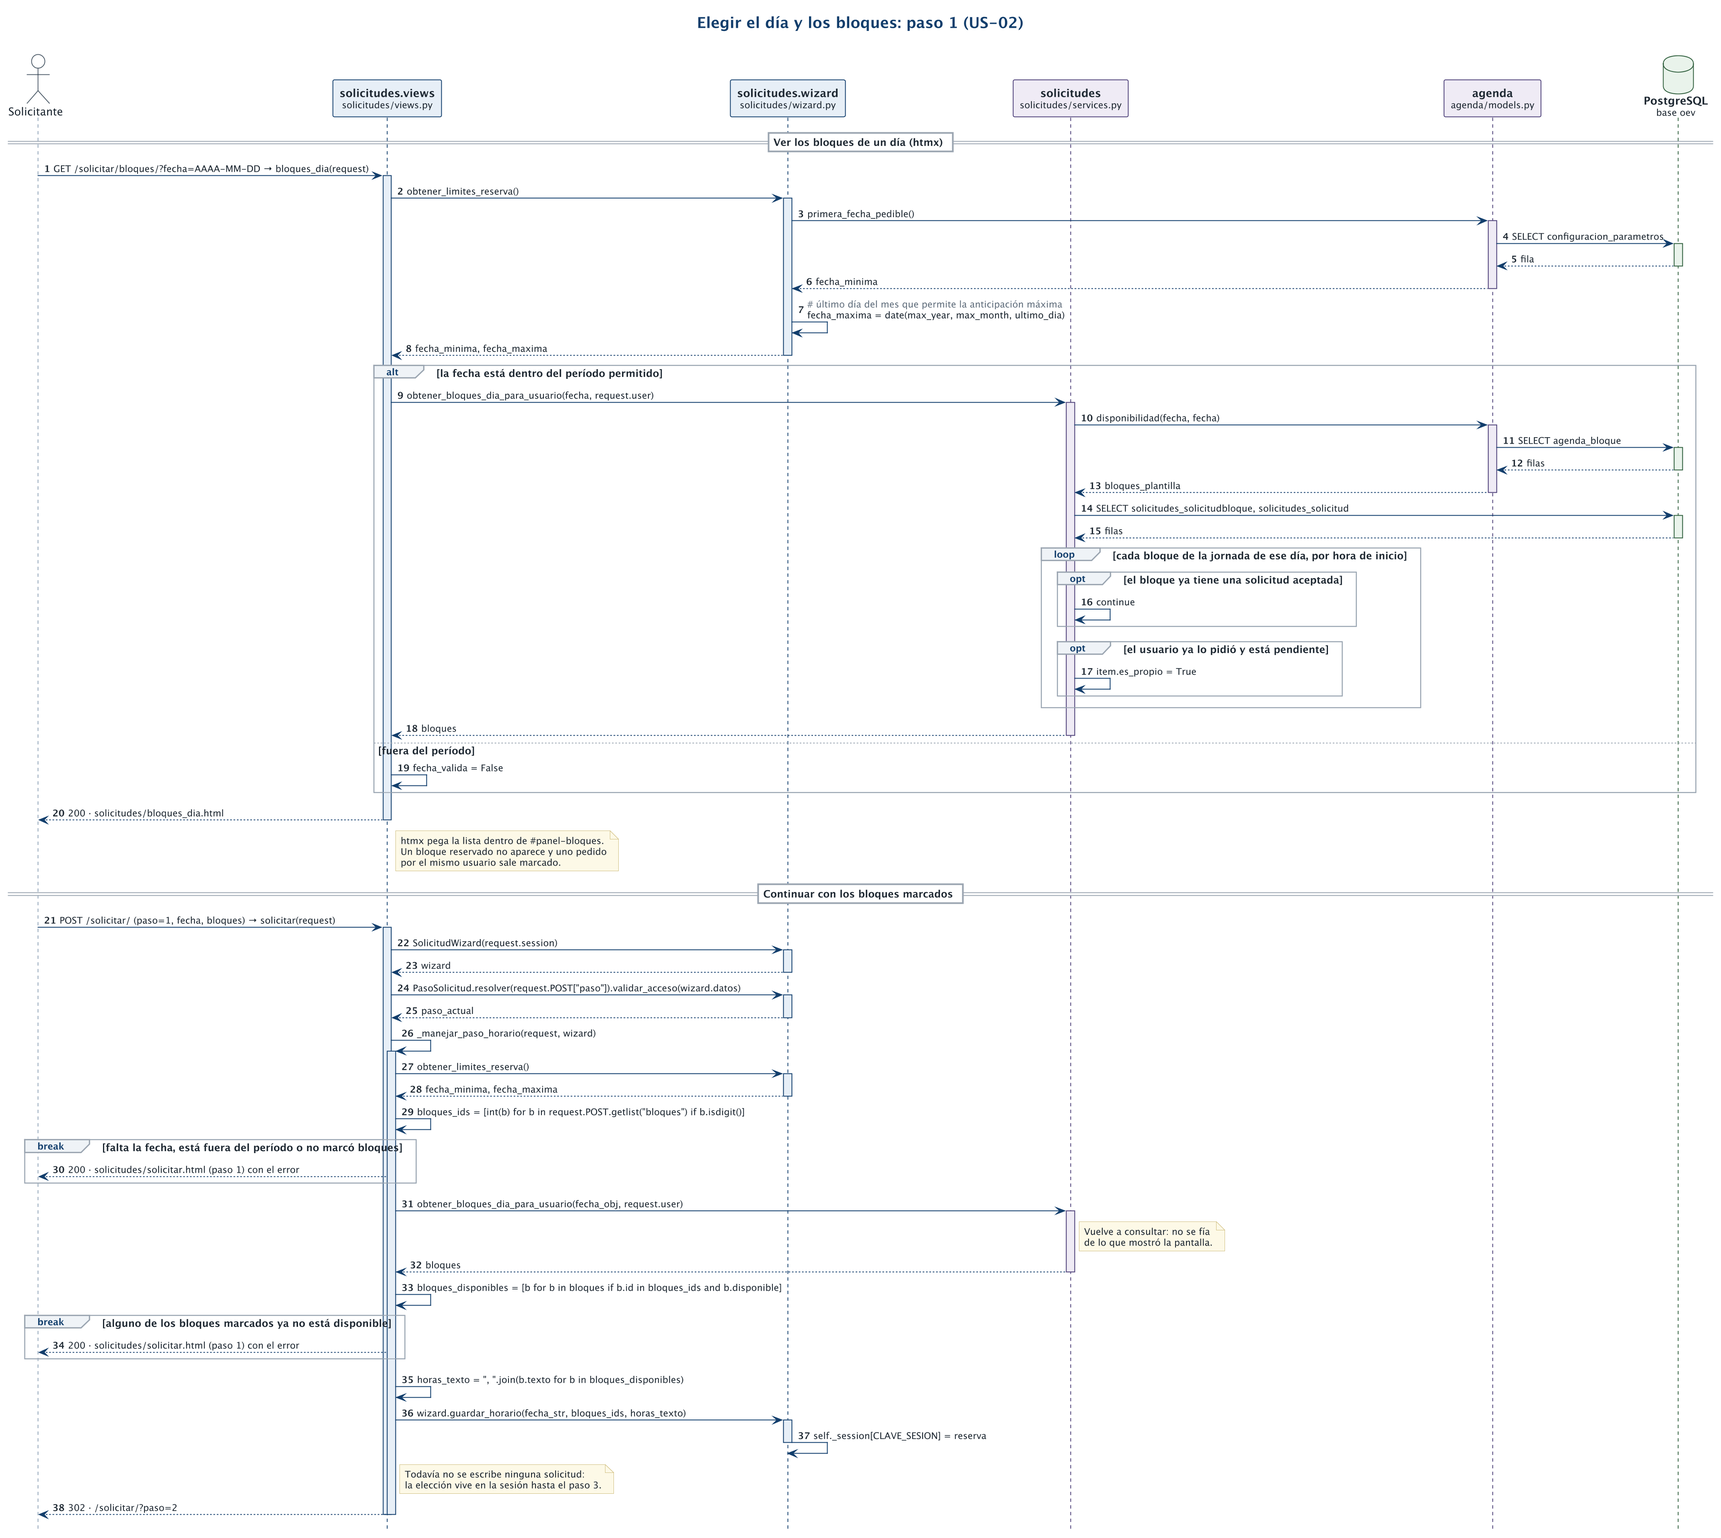
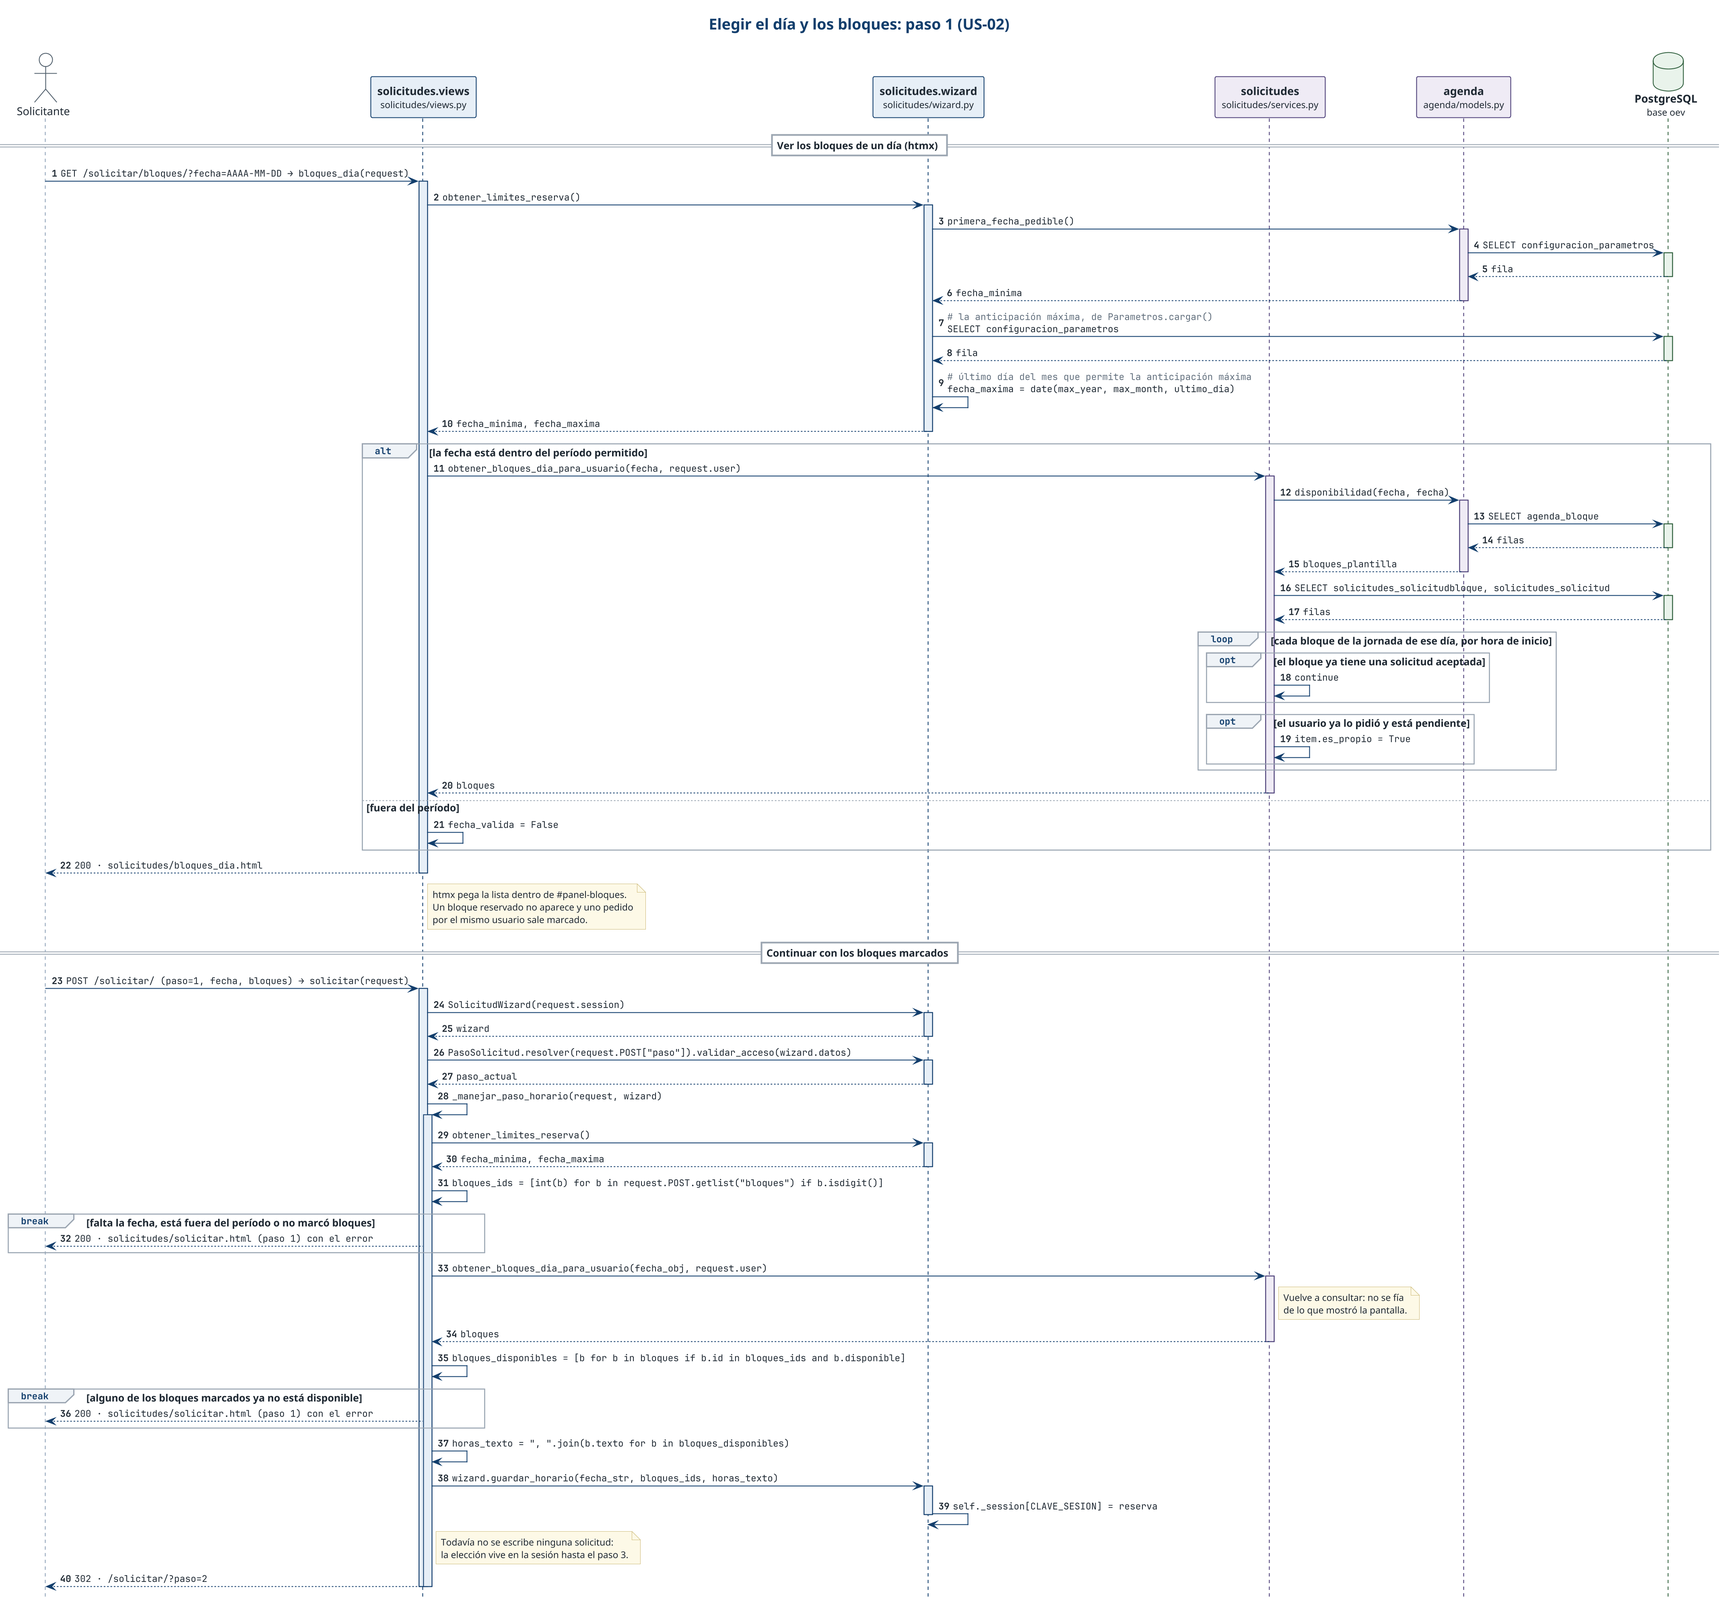
fix(solicitudes): bloqueos al enviar, topes que marcan y anticipación configurable

diff --git a/src/solicitudes/templates/solicitudes/solicitar.html b/src/solicitudes/templates/solicitudes/solicitar.html
@@ -196,6 +196,12 @@
       </div>
     {% endif %}
 
+    {% if marcas %}
+      <div class="aviso" role="status">
+        {% for aviso in marcas %}{{ aviso }} {% endfor %}La solicitud se envía igual: llega marcada al validador, que decide.
+      </div>
+    {% endif %}
+
     <section class="resumen-confirmacion">
       <h2>Resumen de la reserva</h2>
       <dl class="ficha">

diff --git a/src/solicitudes/services.py b/src/solicitudes/services.py
@@ -4,9 +4,11 @@ from typing import Any, Dict, List, Optional, Tuple
 
 from django.core.exceptions import ValidationError
 from django.db import transaction
+from django.utils.formats import date_format
 
 from agenda.models import Bloque, disponibilidad, primera_fecha_pedible
 from agenda.signals import Reserva
+from configuracion.models import Parametros
 from personas.models import Area
 from .models import Acompanante, Solicitud, SolicitudBloque
 
@@ -122,7 +124,6 @@ def obtener_bloques_dia_para_usuario(fecha: date, usuario=None) -> List[Any]:
             "texto": f"{b.inicio.strftime('%H:%M')} – {b.termino.strftime('%H:%M')}",
             "disponible": True,
             "es_propio": False,
-            "disponible_para_reserva": True,
         })()
 
         # Si el usuario actual tiene una solicitud PENDIENTE para este bloque:
@@ -130,11 +131,42 @@ def obtener_bloques_dia_para_usuario(fecha: date, usuario=None) -> List[Any]:
             s.solicitante_id == usuario_id and s.estado_validacion == Solicitud.EstadoValidacion.PENDIENTE
             for s in sols
         ):
+            # Se ve, pero no se puede volver a pedir: el paso 1 lo rechaza.
             item.es_propio = True
-            item.disponible_para_reserva = False
+            item.disponible = False
 
         resultado.append(item)
 
+    return resultado
+
+
+def marcas(usuario, fecha, cantidad) -> Dict[str, str]:
+    """US-04: los topes no impiden enviar, marcan la solicitud para el validador.
+
+    Devuelve {campo de Solicitud: aviso para el solicitante}, solo con las que
+    aplican. El tope mensual cuenta los bloques vivos de la persona en el mes de
+    `fecha`: pendientes y aceptados que no se cancelaron.
+    """
+    parametros = Parametros.cargar()
+    en_el_mes = cantidad + SolicitudBloque.objects.filter(
+        solicitud__solicitante=usuario,
+        fecha__year=fecha.year,
+        fecha__month=fecha.month,
+        solicitud__estado_validacion__in=[
+            Solicitud.EstadoValidacion.PENDIENTE,
+            Solicitud.EstadoValidacion.ACEPTADA,
+        ],
+    ).exclude(solicitud__estado_confirmacion=Solicitud.EstadoConfirmacion.CANCELADA).count()
+    resultado = {}
+    if cantidad > parametros.max_bloques_solicitud:
+        resultado["sobre_bloques_por_solicitud"] = (
+            f"Pides {cantidad} bloques y el máximo por solicitud es {parametros.max_bloques_solicitud}."
+        )
+    if en_el_mes > parametros.tope_mensual:
+        resultado["sobre_tope_mensual"] = (
+            f"Con esta solicitud sumas {en_el_mes} bloques en {date_format(fecha, 'F')} "
+            f"y el tope mensual es {parametros.tope_mensual}."
+        )
     return resultado
 
 
@@ -148,6 +180,7 @@ def guardar_solicitud_completa(
         fecha_obj = datos_reserva.get("fecha")
         if isinstance(fecha_obj, str):
             fecha_obj = datetime.strptime(fecha_obj, "%Y-%m-%d").date()
+        bloques_ids = datos_reserva.get("bloques_ids", [])
 
         solicitud = Solicitud(
             solicitante=usuario,
@@ -157,11 +190,11 @@ def guardar_solicitud_completa(
             personas=datos_reserva.get("personas", 1),
             estado_validacion=Solicitud.EstadoValidacion.PENDIENTE,
             estado_confirmacion=Solicitud.EstadoConfirmacion.NO_HABILITADA,
+            **{campo: True for campo in marcas(usuario, fecha_obj, len(bloques_ids))},
         )
         solicitud.full_clean()
         solicitud.save()
 
-        bloques_ids = datos_reserva.get("bloques_ids", [])
         bloques_db = Bloque.objects.filter(id__in=bloques_ids, activo=True)
         if len(bloques_db) != len(bloques_ids):
             raise ValidationError("Uno o más bloques seleccionados no son válidos o ya no están activos.")

diff --git a/src/solicitudes/models.py b/src/solicitudes/models.py
@@ -3,7 +3,7 @@ from django.core.exceptions import ValidationError
 from django.core.validators import MaxValueValidator, MinValueValidator
 from django.db import models
 
-from agenda.models import Bloque, primera_fecha_pedible
+from agenda.models import Bloque, bloqueo_de, primera_fecha_pedible
 from personas.models import Area
 
 
@@ -57,6 +57,13 @@ class Solicitud(models.Model):
         choices=EstadoConfirmacion.choices,
         default=EstadoConfirmacion.NO_HABILITADA,
         verbose_name="estado de confirmación",
+    )
+    # US-04: los topes no impiden enviar; marcan la solicitud para que decida el
+    # validador. Se fijan al enviar (`services.marcas`), así cambiar un tope
+    # después no toca las ya enviadas (AC3).
+    sobre_tope_mensual = models.BooleanField(default=False, verbose_name="sobre el tope mensual")
+    sobre_bloques_por_solicitud = models.BooleanField(
+        default=False, verbose_name="sobre el máximo de bloques por solicitud"
     )
 
     bloques = models.ManyToManyField(
@@ -160,23 +167,33 @@ class SolicitudBloque(models.Model):
     def clean(self):
         super().clean()
         if not self.pk and self.bloque_id and self.fecha:
+            horas = f"{self.bloque.inicio:%H:%M}–{self.bloque.termino:%H:%M}"
             fecha_minima = primera_fecha_pedible()
             if self.fecha < fecha_minima:
                 raise ValidationError({
                     "fecha": (
-                        f"No se puede solicitar una reserva para el {self.fecha}. "
+                        f"No se puede solicitar una reserva para el {self.fecha:%d/%m/%Y}. "
                         f"Las reservas deben realizarse a partir del lunes {fecha_minima.strftime('%d/%m/%Y')}."
                     )
                 })
 
             if not self.bloque.activo:
                 raise ValidationError({
-                    "bloque": f"El bloque #{self.bloque_id} ya no se encuentra activo."
+                    "bloque": f"El bloque de {horas} ya no se encuentra activo."
                 })
 
             if self.bloque.dia != self.fecha.weekday():
                 raise ValidationError({
                     "fecha": "El día de la semana no coincide con el turno configurado del bloque."
+                })
+
+            # US-17 AC3: lo bloqueado no se puede pedir, aunque se haya bloqueado
+            # después de elegirlo en el paso 1.
+            bloqueo = bloqueo_de(self.fecha, self.bloque.inicio)
+            if bloqueo is not None:
+                raise ValidationError({
+                    "bloque": f"El bloque de {horas} no se puede pedir: la sala está bloqueada "
+                              f"{bloqueo.periodo} ({bloqueo.razon})."
                 })
 
             ocupados = SolicitudBloque.objects.filter(
@@ -194,7 +211,7 @@ class SolicitudBloque(models.Model):
 
             if ocupados.exists():
                 raise ValidationError({
-                    "bloque": f"El bloque #{self.bloque_id} ya se encuentra reservado para la fecha {self.fecha}."
+                    "bloque": f"El bloque de {horas} del {self.fecha:%d/%m} ya se encuentra reservado."
                 })
 
             if hasattr(self, "solicitud") and self.solicitud and getattr(self.solicitud, "solicitante_id", None):
@@ -209,7 +226,7 @@ class SolicitudBloque(models.Model):
 
                 if propias_pendientes.exists():
                     raise ValidationError({
-                        "bloque": f"Ya tienes una solicitud pendiente para el bloque #{self.bloque_id} en la fecha {self.fecha}."
+                        "bloque": f"Ya tienes una solicitud pendiente para el bloque de {horas} del {self.fecha:%d/%m}."
                     })
 
     def save(self, *args, **kwargs):

diff --git a/src/configuracion/models.py b/src/configuracion/models.py
@@ -33,12 +33,19 @@ class Parametros(models.Model):
         "desfase mínimo", default=1,
         validators=[MinValueValidator(0), MaxValueValidator(8)],
     )
+    # Hasta dónde se puede pedir: el fin del mes que queda a tantos meses de la
+    # fecha más cercana. Estaba fija en el código del formulario.
+    meses_anticipacion = models.PositiveSmallIntegerField(
+        "anticipación máxima", default=4,
+        validators=[MinValueValidator(1), MaxValueValidator(12)],
+    )
 
     plazo_confirmacion_dias = models.PositiveSmallIntegerField(
         "plazo de confirmación previa", default=2,
         validators=[MinValueValidator(1), MaxValueValidator(30)],
     )
-    # Los dos topes marcan la solicitud, no la impiden (arquitectura.md §5.2).
+    # Los dos topes no impiden enviar: marcan la solicitud y decide el validador
+    # (`solicitudes.services.marcas`).
     tope_mensual = models.PositiveSmallIntegerField(
         "tope mensual por usuario", default=8,
         validators=[MinValueValidator(1), MaxValueValidator(40)],

diff --git a/src/solicitudes/wizard.py b/src/solicitudes/wizard.py
@@ -3,7 +3,7 @@ from datetime import date, datetime, time, timedelta
 from enum import IntEnum
 from typing import Any, Dict, List, Optional, Tuple
 
-from django.conf import settings
+from configuracion.models import Parametros
 
 
 def obtener_lunes_semana_subsiguiente(fecha_referencia: Optional[date] = None) -> date:
@@ -33,13 +33,7 @@ def obtener_limites_reserva(fecha_referencia: Optional[date] = None) -> Tuple[da
         fecha_minima = primera_fecha_pedible()
         base = fecha_minima
 
-    meses_anticipacion = getattr(settings, "MESES_ANTICIPACION_MAXIMA", 4)
-    try:
-        meses_anticipacion = int(meses_anticipacion)
-    except (ValueError, TypeError):
-        meses_anticipacion = 4
-
-    total_meses = (base.year * 12) + (base.month - 1) + max(meses_anticipacion, 0)
+    total_meses = (base.year * 12) + (base.month - 1) + Parametros.cargar().meses_anticipacion
     max_year = total_meses // 12
     max_month = (total_meses % 12) + 1
     _, ultimo_dia = calendar.monthrange(max_year, max_month)

diff --git a/src/configuracion/forms.py b/src/configuracion/forms.py
@@ -13,6 +13,9 @@ SECCIONES = [
         ("Desfase mínimo", ["semanas_desfase"],
          "Semanas completas entre la solicitud y la fecha pedida. Con 1, lo que se "
          "pide esta semana es para dentro de dos."),
+        ("Anticipación máxima", ["meses_anticipacion"],
+         "Hasta dónde se puede pedir. Con 4, si la fecha más cercana es en octubre, "
+         "se puede pedir hasta fines de febrero."),
     ]),
     ("Reserva", [
         ("Confirmación previa", ["plazo_confirmacion_dias"],
@@ -44,6 +47,7 @@ SECCIONES = [
 # Va pegada al último control de la fila, porque "8" no dice nada y "8 bloques" sí.
 UNIDADES = {
     "semanas_desfase": "semanas",
+    "meses_anticipacion": "meses",
     "plazo_confirmacion_dias": "días antes",
     "tope_mensual": "bloques al mes",
     "max_bloques_solicitud": "bloques",

diff --git a/src/solicitudes/views.py b/src/solicitudes/views.py
@@ -21,6 +21,7 @@ from .forms import (
 from .models import Solicitud, SolicitudBloque
 from .services import (
     guardar_solicitud_completa,
+    marcas,
     obtener_bloques_dia_para_usuario,
     revisar_acompanantes,
 )
@@ -368,6 +369,8 @@ def _manejar_paso_confirmacion(request, wizard: SolicitudWizard, puede_cambiar_a
     contexto = {
         "paso": PasoSolicitud.CONFIRMACION.value,
         "reserva": resumen,
+        # US-04: si pasa un tope se avisa antes de enviar; se envía igual.
+        "marcas": marcas(request.user, resumen["fecha"], len(resumen["bloques_ids"])).values(),
         "error_terminos": error_terminos,
         "terminos": terminos_texto,
         "puede_cambiar_area": puede_cambiar_area,

diff --git a/src/solicitudes/migrations/0002_solicitud_marcas.py b/src/solicitudes/migrations/0002_solicitud_marcas.py
@@ -1,0 +1,23 @@
+# Generated by Django 5.2.17 on 2026-10-04 22:37
+
+from django.db import migrations, models
+
+
+class Migration(migrations.Migration):
+
+    dependencies = [
+        ('solicitudes', '0001_initial'),
+    ]
+
+    operations = [
+        migrations.AddField(
+            model_name='solicitud',
+            name='sobre_bloques_por_solicitud',
+            field=models.BooleanField(default=False, verbose_name='sobre el máximo de bloques por solicitud'),
+        ),
+        migrations.AddField(
+            model_name='solicitud',
+            name='sobre_tope_mensual',
+            field=models.BooleanField(default=False, verbose_name='sobre el tope mensual'),
+        ),
+    ]

diff --git a/src/solicitudes/admin.py b/src/solicitudes/admin.py
@@ -22,10 +22,15 @@ class SolicitudAdmin(admin.ModelAdmin):
         "estado_validacion",
         "estado_confirmacion",
         "estado_general",
+        "sobre_tope_mensual",
+        "sobre_bloques_por_solicitud",
         "get_total_personas",
         "creado_en",
     ]
-    list_filter = ["estado_validacion", "estado_confirmacion", "area", "creado_en"]
+    list_filter = [
+        "estado_validacion", "estado_confirmacion", "sobre_tope_mensual",
+        "sobre_bloques_por_solicitud", "area", "creado_en",
+    ]
     search_fields = ["solicitante__email", "motivo"]
     inlines = [SolicitudBloqueInline, AcompananteInline]
 

diff --git a/src/configuracion/migrations/0003_parametros_meses_anticipacion.py b/src/configuracion/migrations/0003_parametros_meses_anticipacion.py
@@ -1,0 +1,19 @@
+# Generated by Django 5.2.17 on 2026-10-04 22:37
+
+import django.core.validators
+from django.db import migrations, models
+
+
+class Migration(migrations.Migration):
+
+    dependencies = [
+        ('configuracion', '0002_parametros_semanas_desfase'),
+    ]
+
+    operations = [
+        migrations.AddField(
+            model_name='parametros',
+            name='meses_anticipacion',
+            field=models.PositiveSmallIntegerField(default=4, validators=[django.core.validators.MinValueValidator(1), django.core.validators.MaxValueValidator(12)], verbose_name='anticipación máxima'),
+        ),
+    ]

diff --git a/src/solicitudes/urls.py b/src/solicitudes/urls.py
@@ -7,5 +7,4 @@ urlpatterns = [
     path("area/", views.solicitar_area, name="solicitar_area"),
     path("calendario/", views.calendario, name="calendario"),
     path("bloques/", views.bloques_dia, name="bloques_dia"),
-    path("validacion/", views.panel_validador, name="panel_validador"),
 ]

diff --git a/docs/uso.md b/docs/uso.md
@@ -126,8 +126,8 @@ Cada fila explica qué hace el sistema con ese valor.
 
 | Grupo | Parámetros |
 |---|---|
-| Recepción de solicitudes | Día y hora límite para pedir la semana siguiente, desfase mínimo en semanas |
-| Reserva | Días de anticipación para confirmar, tope mensual por persona, bloques por solicitud |
+| Recepción de solicitudes | Día y hora límite para pedir la semana siguiente, desfase mínimo en semanas, anticipación máxima en meses |
+| Reserva | Días de anticipación para confirmar, tope mensual por persona, bloques por solicitud. Pasar un tope no impide enviar: la solicitud llega marcada al validador |
 | Cierre y sanciones | Inasistencias para sancionar, duración de la sanción |
 | Acceso | Intentos antes de bloquear una cuenta, duración del bloqueo |
 | Términos y condiciones | El texto que acepta el solicitante al enviar una solicitud |
@@ -245,7 +245,8 @@ borra el día y los bloques que ya habías marcado.
    administrador (ver [Reglas](#reglas-los-parámetros-del-sistema)). Sábados y
    domingos no se pueden pedir.
 2. Para moverte entre meses usa **Anterior** y **Siguiente**, o los selectores
-   de mes y año. Solo se puede pedir con unos meses de anticipación.
+   de mes y año. Se puede pedir hasta donde llega la anticipación máxima (ver
+   [Reglas](#reglas-los-parámetros-del-sistema)).
 3. Haz clic en un día. Abajo aparecen sus bloques horarios.
 4. Marca uno o más bloques. Cada uno dice **Disponible** o, al marcarlo,
    **Seleccionado**. Los que ya están reservados no aparecen, y los que ya
@@ -287,6 +288,10 @@ completo:
    casilla.
 3. Pulsa **Confirmar y enviar solicitud**.
 
+Si la solicitud pasa el máximo de bloques por solicitud o tu tope mensual de
+bloques, el paso 3 lo avisa arriba del resumen. Se envía igual: llega marcada al
+validador, que decide.
+
 ![Paso 3: revisión y confirmación](uso/us-02/paso3-confirmacion.png)
 
 Al enviarla aparece **Solicitud completa**, con el número de la solicitud, que
@@ -312,6 +317,9 @@ de nuevo.
 | 2 | Dos acompañantes tienen el mismo correo | Hay un correo repetido entre los acompañantes. |
 | 2 | Se incluyó tu propio correo como acompañante | Tu propio correo ya está incluido: eres parte de la cuenta de personas. |
 | 3 | No se aceptaron los términos | Tienes que aceptar los términos y condiciones para enviar la solicitud. |
+| 3 | La sala se bloqueó en ese horario mientras completabas el formulario | El bloque de 14:10–15:40 no se puede pedir: la sala está bloqueada el lunes 19 de octubre (Feriado). |
+| 3 | Alguien obtuvo el bloque mientras completabas el formulario | El bloque de 14:10–15:40 del 19/10 ya se encuentra reservado. |
+| 3 | Pasó el límite para pedir esa semana | No se puede solicitar una reserva para el 19/10/2026. Las reservas deben realizarse a partir del lunes 26/10/2026. |
 
 Lo que eliges en cada paso queda guardado mientras completas el formulario. La
 solicitud se registra recién al pulsar **Confirmar y enviar solicitud**.
